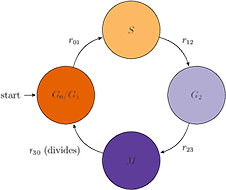
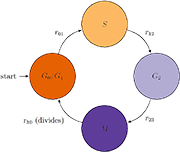
FC_small resize

diff --git a/bin/substrates.py b/bin/substrates.py
@@ -758,6 +758,7 @@ class SubstrateTab(object):
         fname = "snapshot%08d.svg" % frame
         full_fname = os.path.join(self.output_dir, fname)
 
+        # img_fname = os.path.join(self.output_dir, 'Flow_Cytometry_small.png')
         img_fname = os.path.join(self.output_dir, 'Flow_Cytometry_small.png')
 
         # with debug_view:
@@ -922,7 +923,8 @@ class SubstrateTab(object):
         img = mpimg.imread(img_fname)  # Flow_Cytometry_small.png
         
         # Method 1 - NanoHUB (Not tested)
-        imagebox = OffsetImage(img,zoom = 58/self.fig.dpi)
+        # imagebox = OffsetImage(img,zoom = 58/self.fig.dpi)
+        imagebox = OffsetImage(img)
         ab = AnnotationBbox(imagebox, (360, -380),frameon=False)
         ax.add_artist(ab)
 

diff --git a/bin/Cycle_Training.py b/bin/Cycle_Training.py
@@ -234,7 +234,8 @@ def run_done_func(s, rdir):
     # save the config file to the cache directory
     shutil.copy('config.xml', rdir)
 
-    shutil.copy('Flow_Cytometry_small.png', rdir)
+    # shutil.copy('Flow_Cytometry_small.png', rdir)
+    shutil.copy('fc_small.png', rdir)
 
     # cd out of tmpdir 
     os.chdir(homedir)
@@ -289,7 +290,8 @@ def run_sim_func(s):
         shutil.move('tmpdir', tname)
     os.makedirs('tmpdir')
 
-    shutil.copy('doc/Flow_Cytometry_small.png', 'tmpdir')
+    # shutil.copy('doc/Flow_Cytometry_small.png', 'tmpdir')
+    shutil.copy('doc/fc_small.png', 'tmpdir')
 
     # write the default config file to tmpdir
     new_config_file = "tmpdir/config.xml"  # use Path; work on Windows?
